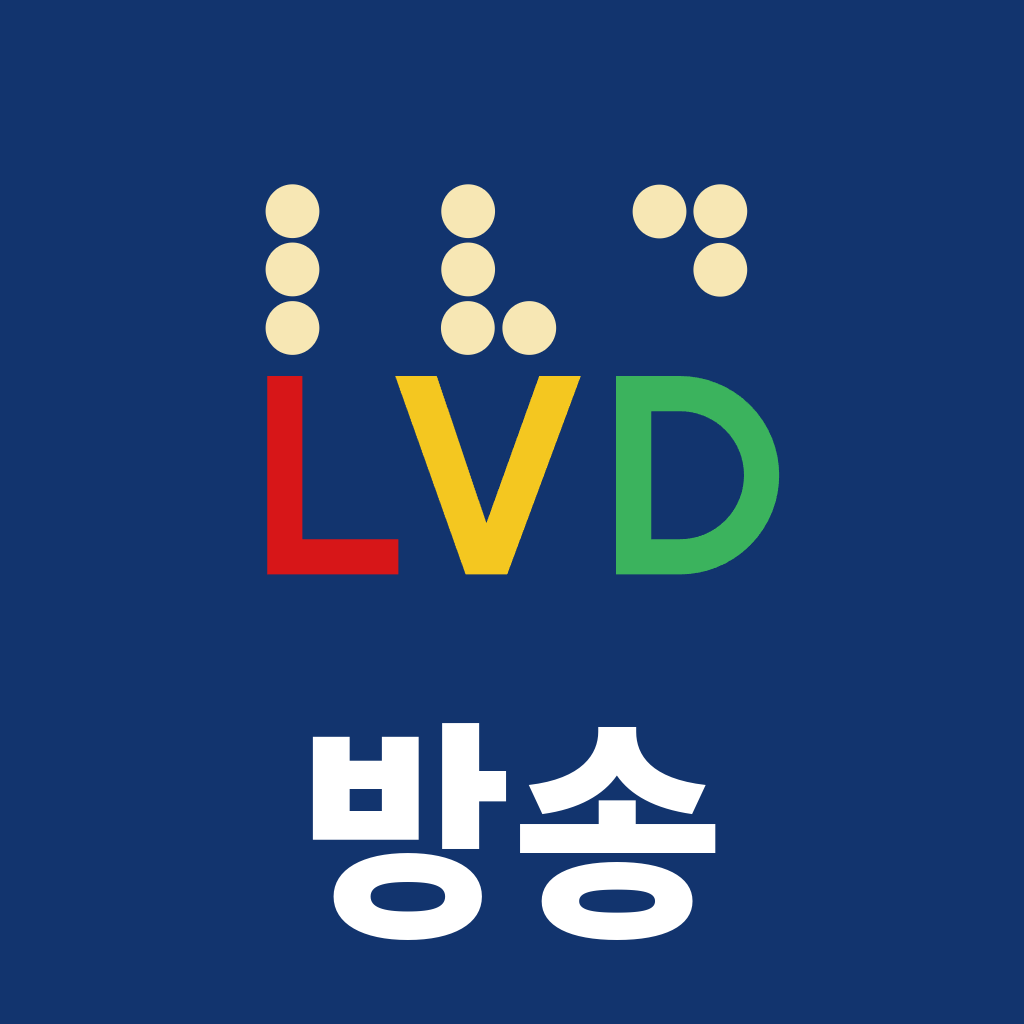
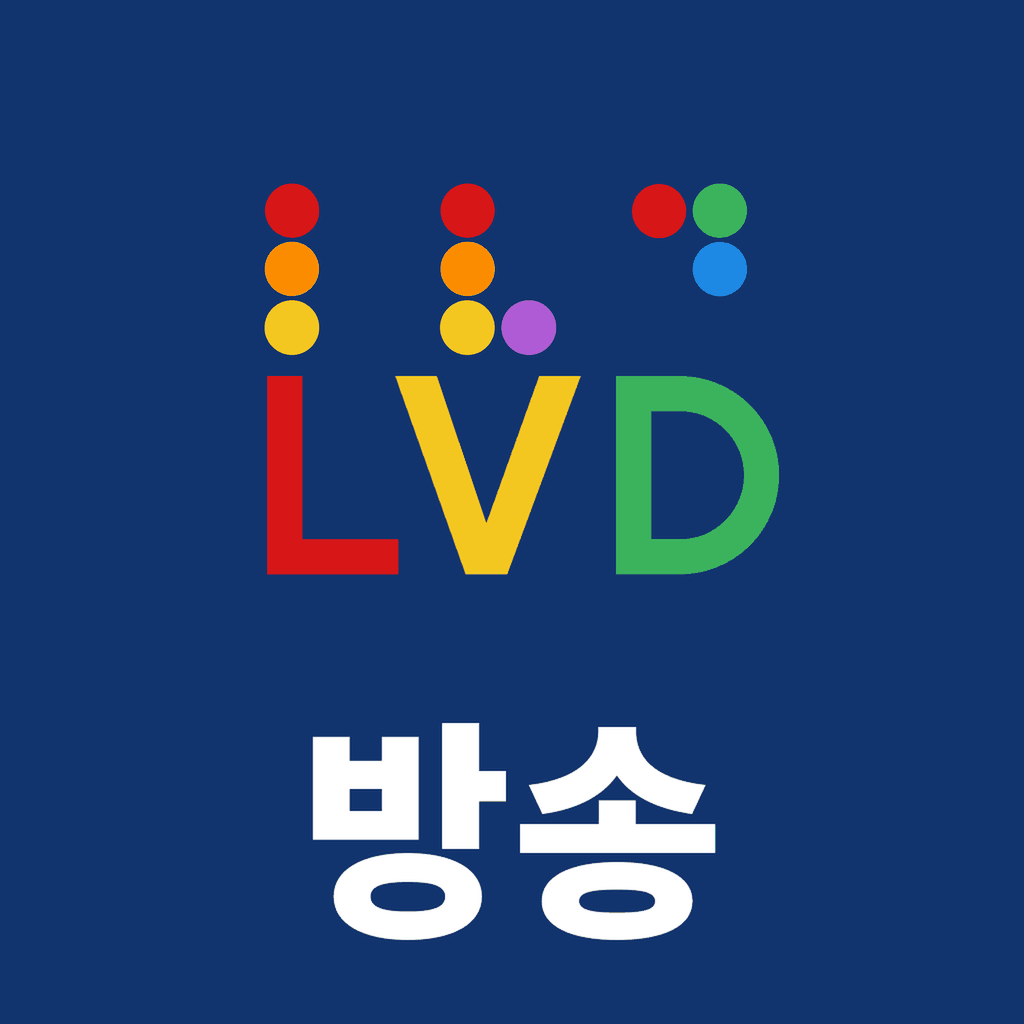
법인 로고 점자 점을 점 자리마다 여섯 색으로 — 앱 아이콘 다섯(AI점자도서관·LVD 방송·LVD 송출·LVD 수업·투어스튜디오)과 앱 안 로고(같은 다섯 앱, 아이폰·안드로이드). 길눈·자봉은 오늘 대대적인 수정이 있어 뺌 (이사장님 11-26 19시 6분 「네」·19시 7분 「모두 동일하게」·19시 26분 「길눈과 자봉은 제외」)
Claude-Session: https://claude.ai/code/session_012twot9z6RkYo8Sa4Vbakr1

Changed region(s): [[0.4062, 0.1562, 0.5625, 0.3438], [0.5938, 0.1562, 0.75, 0.3125], [0.25, 0.1562, 0.3125, 0.3438]]

diff --git a/Lib/Theme.swift b/Lib/Theme.swift
@@ -50,9 +50,12 @@ struct LogoView: View {
             let ox = (size.width - 205 * s) / 2, oy = (size.height - 162 * s) / 2
             func P(_ x: CGFloat, _ y: CGFloat) -> CGPoint { CGPoint(x: ox + x * s, y: oy + y * s) }
             let dots: [(CGFloat, CGFloat)] = [(33.9,28.5),(33.9,46.7),(33.9,65.0),(88.8,28.5),(88.8,46.7),(88.7,65.0),(107.9,65.0),(148.6,28.6),(167.6,28.5),(167.6,46.8)]
-            for (x, y) in dots {
+            // 261126 점자 점을 점 자리마다 여섯 색으로(1 빨강·2 주황·3 노랑·4 초록·5 파랑·6 보라 — 점자 교육 여섯 색과 같음, 이사장님 승인 「1」·「네」)
+            let jari = [1, 2, 3, 1, 2, 3, 6, 1, 4, 5]
+            let yeoseot = [Color(red: 0.843, green: 0.086, blue: 0.094), Color(red: 0.984, green: 0.549, blue: 0.0), Color(red: 0.957, green: 0.780, blue: 0.125), Color(red: 0.231, green: 0.702, blue: 0.365), Color(red: 0.118, green: 0.533, blue: 0.898), Color(red: 0.690, green: 0.357, blue: 0.839)]
+            for (k, (x, y)) in dots.enumerated() {
                 let r = 8.4 * s, c = P(x, y)
-                cx.fill(Path(ellipseIn: CGRect(x: c.x - r, y: c.y - r, width: r * 2, height: r * 2)), with: .color(jeomSaek))
+                cx.fill(Path(ellipseIn: CGRect(x: c.x - r, y: c.y - r, width: r * 2, height: r * 2)), with: .color(yeoseot[jari[k] - 1]))
             }
             var l = Path(); l.move(to: P(26,80)); l.addLine(to: P(37,80)); l.addLine(to: P(37,131)); l.addLine(to: P(67,131)); l.addLine(to: P(67,142)); l.addLine(to: P(26,142)); l.closeSubpath()
             cx.fill(l, with: .color(Saek.ppalgang))

diff --git a/Tour/Theme.swift b/Tour/Theme.swift
@@ -50,9 +50,12 @@ struct LogoView: View {
             let ox = (size.width - 205 * s) / 2, oy = (size.height - 162 * s) / 2
             func P(_ x: CGFloat, _ y: CGFloat) -> CGPoint { CGPoint(x: ox + x * s, y: oy + y * s) }
             let dots: [(CGFloat, CGFloat)] = [(33.9,28.5),(33.9,46.7),(33.9,65.0),(88.8,28.5),(88.8,46.7),(88.7,65.0),(107.9,65.0),(148.6,28.6),(167.6,28.5),(167.6,46.8)]
-            for (x, y) in dots {
+            // 261126 점자 점을 점 자리마다 여섯 색으로(1 빨강·2 주황·3 노랑·4 초록·5 파랑·6 보라 — 점자 교육 여섯 색과 같음, 이사장님 승인 「1」·「네」)
+            let jari = [1, 2, 3, 1, 2, 3, 6, 1, 4, 5]
+            let yeoseot = [Color(red: 0.843, green: 0.086, blue: 0.094), Color(red: 0.984, green: 0.549, blue: 0.0), Color(red: 0.957, green: 0.780, blue: 0.125), Color(red: 0.231, green: 0.702, blue: 0.365), Color(red: 0.118, green: 0.533, blue: 0.898), Color(red: 0.690, green: 0.357, blue: 0.839)]
+            for (k, (x, y)) in dots.enumerated() {
                 let r = 8.4 * s, c = P(x, y)
-                cx.fill(Path(ellipseIn: CGRect(x: c.x - r, y: c.y - r, width: r * 2, height: r * 2)), with: .color(jeomSaek))
+                cx.fill(Path(ellipseIn: CGRect(x: c.x - r, y: c.y - r, width: r * 2, height: r * 2)), with: .color(yeoseot[jari[k] - 1]))
             }
             var l = Path(); l.move(to: P(26,80)); l.addLine(to: P(37,80)); l.addLine(to: P(37,131)); l.addLine(to: P(67,131)); l.addLine(to: P(67,142)); l.addLine(to: P(26,142)); l.closeSubpath()
             cx.fill(l, with: .color(Saek.ppalgang))

diff --git a/Bfb/HyeophoeLogo.swift b/Bfb/HyeophoeLogo.swift
@@ -14,9 +14,12 @@ struct HyeophoeLogo: View {
             let ox = (size.width - 205 * s) / 2, oy = (size.height - 162 * s) / 2
             func P(_ x: CGFloat, _ y: CGFloat) -> CGPoint { CGPoint(x: ox + x * s, y: oy + y * s) }
             let dots: [(CGFloat, CGFloat)] = [(33.9,28.5),(33.9,46.7),(33.9,65.0),(88.8,28.5),(88.8,46.7),(88.7,65.0),(107.9,65.0),(148.6,28.6),(167.6,28.5),(167.6,46.8)]
-            for (x, y) in dots {
+            // 261126 점자 점을 점 자리마다 여섯 색으로(1 빨강·2 주황·3 노랑·4 초록·5 파랑·6 보라 — 점자 교육 여섯 색과 같음, 이사장님 승인 「1」·「네」)
+            let jari = [1, 2, 3, 1, 2, 3, 6, 1, 4, 5]
+            let yeoseot = [Color(red: 0.843, green: 0.086, blue: 0.094), Color(red: 0.984, green: 0.549, blue: 0.0), Color(red: 0.957, green: 0.780, blue: 0.125), Color(red: 0.231, green: 0.702, blue: 0.365), Color(red: 0.118, green: 0.533, blue: 0.898), Color(red: 0.690, green: 0.357, blue: 0.839)]
+            for (k, (x, y)) in dots.enumerated() {
                 let r = 8.4 * s, c = P(x, y)
-                cx.fill(Path(ellipseIn: CGRect(x: c.x - r, y: c.y - r, width: r * 2, height: r * 2)), with: .color(jeomSaek))
+                cx.fill(Path(ellipseIn: CGRect(x: c.x - r, y: c.y - r, width: r * 2, height: r * 2)), with: .color(yeoseot[jari[k] - 1]))
             }
             var l = Path(); l.move(to: P(26,80)); l.addLine(to: P(37,80)); l.addLine(to: P(37,131)); l.addLine(to: P(67,131)); l.addLine(to: P(67,142)); l.addLine(to: P(26,142)); l.closeSubpath()
             cx.fill(l, with: .color(ppalgang))

diff --git a/Byod/HyeophoeLogo.swift b/Byod/HyeophoeLogo.swift
@@ -14,9 +14,12 @@ struct HyeophoeLogo: View {
             let ox = (size.width - 205 * s) / 2, oy = (size.height - 162 * s) / 2
             func P(_ x: CGFloat, _ y: CGFloat) -> CGPoint { CGPoint(x: ox + x * s, y: oy + y * s) }
             let dots: [(CGFloat, CGFloat)] = [(33.9,28.5),(33.9,46.7),(33.9,65.0),(88.8,28.5),(88.8,46.7),(88.7,65.0),(107.9,65.0),(148.6,28.6),(167.6,28.5),(167.6,46.8)]
-            for (x, y) in dots {
+            // 261126 점자 점을 점 자리마다 여섯 색으로(1 빨강·2 주황·3 노랑·4 초록·5 파랑·6 보라 — 점자 교육 여섯 색과 같음, 이사장님 승인 「1」·「네」)
+            let jari = [1, 2, 3, 1, 2, 3, 6, 1, 4, 5]
+            let yeoseot = [Color(red: 0.843, green: 0.086, blue: 0.094), Color(red: 0.984, green: 0.549, blue: 0.0), Color(red: 0.957, green: 0.780, blue: 0.125), Color(red: 0.231, green: 0.702, blue: 0.365), Color(red: 0.118, green: 0.533, blue: 0.898), Color(red: 0.690, green: 0.357, blue: 0.839)]
+            for (k, (x, y)) in dots.enumerated() {
                 let r = 8.4 * s, c = P(x, y)
-                cx.fill(Path(ellipseIn: CGRect(x: c.x - r, y: c.y - r, width: r * 2, height: r * 2)), with: .color(jeomSaek))
+                cx.fill(Path(ellipseIn: CGRect(x: c.x - r, y: c.y - r, width: r * 2, height: r * 2)), with: .color(yeoseot[jari[k] - 1]))
             }
             var l = Path(); l.move(to: P(26,80)); l.addLine(to: P(37,80)); l.addLine(to: P(37,131)); l.addLine(to: P(67,131)); l.addLine(to: P(67,142)); l.addLine(to: P(26,142)); l.closeSubpath()
             cx.fill(l, with: .color(ppalgang))

diff --git a/Sueop/HyeophoeLogo.swift b/Sueop/HyeophoeLogo.swift
@@ -14,9 +14,12 @@ struct HyeophoeLogo: View {
             let ox = (size.width - 205 * s) / 2, oy = (size.height - 162 * s) / 2
             func P(_ x: CGFloat, _ y: CGFloat) -> CGPoint { CGPoint(x: ox + x * s, y: oy + y * s) }
             let dots: [(CGFloat, CGFloat)] = [(33.9,28.5),(33.9,46.7),(33.9,65.0),(88.8,28.5),(88.8,46.7),(88.7,65.0),(107.9,65.0),(148.6,28.6),(167.6,28.5),(167.6,46.8)]
-            for (x, y) in dots {
+            // 261126 점자 점을 점 자리마다 여섯 색으로(1 빨강·2 주황·3 노랑·4 초록·5 파랑·6 보라 — 점자 교육 여섯 색과 같음, 이사장님 승인 「1」·「네」)
+            let jari = [1, 2, 3, 1, 2, 3, 6, 1, 4, 5]
+            let yeoseot = [Color(red: 0.843, green: 0.086, blue: 0.094), Color(red: 0.984, green: 0.549, blue: 0.0), Color(red: 0.957, green: 0.780, blue: 0.125), Color(red: 0.231, green: 0.702, blue: 0.365), Color(red: 0.118, green: 0.533, blue: 0.898), Color(red: 0.690, green: 0.357, blue: 0.839)]
+            for (k, (x, y)) in dots.enumerated() {
                 let r = 8.4 * s, c = P(x, y)
-                cx.fill(Path(ellipseIn: CGRect(x: c.x - r, y: c.y - r, width: r * 2, height: r * 2)), with: .color(jeomSaek))
+                cx.fill(Path(ellipseIn: CGRect(x: c.x - r, y: c.y - r, width: r * 2, height: r * 2)), with: .color(yeoseot[jari[k] - 1]))
             }
             var l = Path(); l.move(to: P(26,80)); l.addLine(to: P(37,80)); l.addLine(to: P(37,131)); l.addLine(to: P(67,131)); l.addLine(to: P(67,142)); l.addLine(to: P(26,142)); l.closeSubpath()
             cx.fill(l, with: .color(ppalgang))

diff --git a/android/app/src/bfb/java/kr/or/ada/app/bfb/HyeophoeLogo.kt b/android/app/src/bfb/java/kr/or/ada/app/bfb/HyeophoeLogo.kt
@@ -26,9 +26,13 @@ class HyeophoeLogo(c: Context, private val jeom: Int = Color.rgb(247, 231, 180))
         val ox = (width - 205 * s) / 2; val oy = (height - 162 * s) / 2
         fun x(v: Float): Float = ox + v * s
         fun y(v: Float): Float = oy + v * s
-        pt.color = jeom
-        for ((a, b) in listOf(33.9f to 28.5f, 33.9f to 46.7f, 33.9f to 65f, 88.8f to 28.5f, 88.8f to 46.7f, 88.7f to 65f, 107.9f to 65f, 148.6f to 28.6f, 167.6f to 28.5f, 167.6f to 46.8f))
+        // 261126 점자 점을 점 자리마다 여섯 색으로(1 빨강·2 주황·3 노랑·4 초록·5 파랑·6 보라 — 점자 교육 여섯 색과 같음, 이사장님 승인 「1」·「네」)
+        val yeoseot = intArrayOf(Color.rgb(215, 22, 24), Color.rgb(251, 140, 0), Color.rgb(244, 199, 32), Color.rgb(59, 179, 93), Color.rgb(30, 136, 229), Color.rgb(176, 91, 214))
+        val jari = intArrayOf(1, 2, 3, 1, 2, 3, 6, 1, 4, 5)
+        listOf(33.9f to 28.5f, 33.9f to 46.7f, 33.9f to 65f, 88.8f to 28.5f, 88.8f to 46.7f, 88.7f to 65f, 107.9f to 65f, 148.6f to 28.6f, 167.6f to 28.5f, 167.6f to 46.8f).forEachIndexed { k, (a, b) ->
+            pt.color = yeoseot[jari[k] - 1]
             cv.drawCircle(x(a), y(b), 8.4f * s, pt)
+        }
         pt.color = Color.rgb(215, 22, 24)
         cv.drawPath(Path().apply { moveTo(x(26f), y(80f)); lineTo(x(37f), y(80f)); lineTo(x(37f), y(131f)); lineTo(x(67f), y(131f)); lineTo(x(67f), y(142f)); lineTo(x(26f), y(142f)); close() }, pt)
         pt.color = Color.rgb(244, 199, 32)

diff --git a/android/app/src/byod/java/kr/or/ada/app/byod/HyeophoeLogo.kt b/android/app/src/byod/java/kr/or/ada/app/byod/HyeophoeLogo.kt
@@ -26,9 +26,13 @@ class HyeophoeLogo(c: Context, private val jeom: Int = Color.rgb(247, 231, 180))
         val ox = (width - 205 * s) / 2; val oy = (height - 162 * s) / 2
         fun x(v: Float): Float = ox + v * s
         fun y(v: Float): Float = oy + v * s
-        pt.color = jeom
-        for ((a, b) in listOf(33.9f to 28.5f, 33.9f to 46.7f, 33.9f to 65f, 88.8f to 28.5f, 88.8f to 46.7f, 88.7f to 65f, 107.9f to 65f, 148.6f to 28.6f, 167.6f to 28.5f, 167.6f to 46.8f))
+        // 261126 점자 점을 점 자리마다 여섯 색으로(1 빨강·2 주황·3 노랑·4 초록·5 파랑·6 보라 — 점자 교육 여섯 색과 같음, 이사장님 승인 「1」·「네」)
+        val yeoseot = intArrayOf(Color.rgb(215, 22, 24), Color.rgb(251, 140, 0), Color.rgb(244, 199, 32), Color.rgb(59, 179, 93), Color.rgb(30, 136, 229), Color.rgb(176, 91, 214))
+        val jari = intArrayOf(1, 2, 3, 1, 2, 3, 6, 1, 4, 5)
+        listOf(33.9f to 28.5f, 33.9f to 46.7f, 33.9f to 65f, 88.8f to 28.5f, 88.8f to 46.7f, 88.7f to 65f, 107.9f to 65f, 148.6f to 28.6f, 167.6f to 28.5f, 167.6f to 46.8f).forEachIndexed { k, (a, b) ->
+            pt.color = yeoseot[jari[k] - 1]
             cv.drawCircle(x(a), y(b), 8.4f * s, pt)
+        }
         pt.color = Color.rgb(215, 22, 24)
         cv.drawPath(Path().apply { moveTo(x(26f), y(80f)); lineTo(x(37f), y(80f)); lineTo(x(37f), y(131f)); lineTo(x(67f), y(131f)); lineTo(x(67f), y(142f)); lineTo(x(26f), y(142f)); close() }, pt)
         pt.color = Color.rgb(244, 199, 32)

diff --git a/android/app/src/sueop/java/kr/or/ada/app/sueop/HyeophoeLogo.kt b/android/app/src/sueop/java/kr/or/ada/app/sueop/HyeophoeLogo.kt
@@ -26,9 +26,13 @@ class HyeophoeLogo(c: Context, private val jeom: Int = Color.rgb(247, 231, 180))
         val ox = (width - 205 * s) / 2; val oy = (height - 162 * s) / 2
         fun x(v: Float): Float = ox + v * s
         fun y(v: Float): Float = oy + v * s
-        pt.color = jeom
-        for ((a, b) in listOf(33.9f to 28.5f, 33.9f to 46.7f, 33.9f to 65f, 88.8f to 28.5f, 88.8f to 46.7f, 88.7f to 65f, 107.9f to 65f, 148.6f to 28.6f, 167.6f to 28.5f, 167.6f to 46.8f))
+        // 261126 점자 점을 점 자리마다 여섯 색으로(1 빨강·2 주황·3 노랑·4 초록·5 파랑·6 보라 — 점자 교육 여섯 색과 같음, 이사장님 승인 「1」·「네」)
+        val yeoseot = intArrayOf(Color.rgb(215, 22, 24), Color.rgb(251, 140, 0), Color.rgb(244, 199, 32), Color.rgb(59, 179, 93), Color.rgb(30, 136, 229), Color.rgb(176, 91, 214))
+        val jari = intArrayOf(1, 2, 3, 1, 2, 3, 6, 1, 4, 5)
+        listOf(33.9f to 28.5f, 33.9f to 46.7f, 33.9f to 65f, 88.8f to 28.5f, 88.8f to 46.7f, 88.7f to 65f, 107.9f to 65f, 148.6f to 28.6f, 167.6f to 28.5f, 167.6f to 46.8f).forEachIndexed { k, (a, b) ->
+            pt.color = yeoseot[jari[k] - 1]
             cv.drawCircle(x(a), y(b), 8.4f * s, pt)
+        }
         pt.color = Color.rgb(215, 22, 24)
         cv.drawPath(Path().apply { moveTo(x(26f), y(80f)); lineTo(x(37f), y(80f)); lineTo(x(37f), y(131f)); lineTo(x(67f), y(131f)); lineTo(x(67f), y(142f)); lineTo(x(26f), y(142f)); close() }, pt)
         pt.color = Color.rgb(244, 199, 32)

diff --git a/android/app/src/lib/java/kr/or/ada/app/lib/Kkumim.kt b/android/app/src/lib/java/kr/or/ada/app/lib/Kkumim.kt
@@ -38,9 +38,13 @@ class LogoView(c: Context, private val jeom: Int = Saek.geum) : View(c) {
         val ox = (width - 205 * s) / 2; val oy = (height - 162 * s) / 2
         fun x(v: Float): Float = ox + v * s
         fun y(v: Float): Float = oy + v * s
-        pt.color = jeom
-        for ((a, b) in listOf(33.9f to 28.5f, 33.9f to 46.7f, 33.9f to 65f, 88.8f to 28.5f, 88.8f to 46.7f, 88.7f to 65f, 107.9f to 65f, 148.6f to 28.6f, 167.6f to 28.5f, 167.6f to 46.8f))
+        // 261126 점자 점을 점 자리마다 여섯 색으로(1 빨강·2 주황·3 노랑·4 초록·5 파랑·6 보라 — 점자 교육 여섯 색과 같음, 이사장님 승인 「1」·「네」)
+        val yeoseot = intArrayOf(Color.rgb(215, 22, 24), Color.rgb(251, 140, 0), Color.rgb(244, 199, 32), Color.rgb(59, 179, 93), Color.rgb(30, 136, 229), Color.rgb(176, 91, 214))
+        val jari = intArrayOf(1, 2, 3, 1, 2, 3, 6, 1, 4, 5)
+        listOf(33.9f to 28.5f, 33.9f to 46.7f, 33.9f to 65f, 88.8f to 28.5f, 88.8f to 46.7f, 88.7f to 65f, 107.9f to 65f, 148.6f to 28.6f, 167.6f to 28.5f, 167.6f to 46.8f).forEachIndexed { k, (a, b) ->
+            pt.color = yeoseot[jari[k] - 1]
             cv.drawCircle(x(a), y(b), 8.4f * s, pt)
+        }
         pt.color = Saek.ppalgang
         cv.drawPath(Path().apply { moveTo(x(26f), y(80f)); lineTo(x(37f), y(80f)); lineTo(x(37f), y(131f)); lineTo(x(67f), y(131f)); lineTo(x(67f), y(142f)); lineTo(x(26f), y(142f)); close() }, pt)
         pt.color = Saek.norang

diff --git a/android/app/src/tour/java/kr/or/ada/app/tour/Kkumim.kt b/android/app/src/tour/java/kr/or/ada/app/tour/Kkumim.kt
@@ -38,9 +38,13 @@ class LogoView(c: Context, private val jeom: Int = Saek.geum) : View(c) {
         val ox = (width - 205 * s) / 2; val oy = (height - 162 * s) / 2
         fun x(v: Float): Float = ox + v * s
         fun y(v: Float): Float = oy + v * s
-        pt.color = jeom
-        for ((a, b) in listOf(33.9f to 28.5f, 33.9f to 46.7f, 33.9f to 65f, 88.8f to 28.5f, 88.8f to 46.7f, 88.7f to 65f, 107.9f to 65f, 148.6f to 28.6f, 167.6f to 28.5f, 167.6f to 46.8f))
+        // 261126 점자 점을 점 자리마다 여섯 색으로(1 빨강·2 주황·3 노랑·4 초록·5 파랑·6 보라 — 점자 교육 여섯 색과 같음, 이사장님 승인 「1」·「네」)
+        val yeoseot = intArrayOf(Color.rgb(215, 22, 24), Color.rgb(251, 140, 0), Color.rgb(244, 199, 32), Color.rgb(59, 179, 93), Color.rgb(30, 136, 229), Color.rgb(176, 91, 214))
+        val jari = intArrayOf(1, 2, 3, 1, 2, 3, 6, 1, 4, 5)
+        listOf(33.9f to 28.5f, 33.9f to 46.7f, 33.9f to 65f, 88.8f to 28.5f, 88.8f to 46.7f, 88.7f to 65f, 107.9f to 65f, 148.6f to 28.6f, 167.6f to 28.5f, 167.6f to 46.8f).forEachIndexed { k, (a, b) ->
+            pt.color = yeoseot[jari[k] - 1]
             cv.drawCircle(x(a), y(b), 8.4f * s, pt)
+        }
         pt.color = Saek.ppalgang
         cv.drawPath(Path().apply { moveTo(x(26f), y(80f)); lineTo(x(37f), y(80f)); lineTo(x(37f), y(131f)); lineTo(x(67f), y(131f)); lineTo(x(67f), y(142f)); lineTo(x(26f), y(142f)); close() }, pt)
         pt.color = Saek.norang

diff --git a/android/tools/make_android_icon.py b/android/tools/make_android_icon.py
@@ -77,15 +77,18 @@ def save(img, galrae):
 
 
 def make_lib():
-    """261002-L1 AI점자도서관 — 남색 바탕에 법인 로고(점자 lvd 금빛 + 빨강·노랑·초록 LVD), 아이폰 아이콘과 같음"""
+    """261002-L1 AI점자도서관 — 남색 바탕에 법인 로고(점자 lvd 여섯 색 점 + 빨강·노랑·초록 LVD), 아이폰 아이콘과 같음"""
     img = Image.new("RGB", (S, S), (20, 33, 61))
     d = ImageDraw.Draw(img)
     s = 4.6
     tx, ty = 512 - 105.75 * s, 512 - 81 * s
     P = lambda x, y: (tx + x * s, ty + y * s)
-    for (x, y) in [(33.9, 28.5), (33.9, 46.7), (33.9, 65.0), (88.8, 28.5), (88.8, 46.7), (88.7, 65.0), (107.9, 65.0), (148.6, 28.6), (167.6, 28.5), (167.6, 46.8)]:
+    # 261126 법인 로고 점자 점을 점 자리마다 여섯 색으로(1 빨강·2 주황·3 노랑·4 초록·5 파랑·6 보라, 도클 봉사자 방과 같음, 이사장님 승인 10시 48분 「1」)
+    C6 = {1: (215, 22, 24), 2: (251, 140, 0), 3: (244, 199, 32), 4: (59, 179, 93), 5: (30, 136, 229), 6: (176, 91, 214)}
+    for (x, y), n in zip([(33.9, 28.5), (33.9, 46.7), (33.9, 65.0), (88.8, 28.5), (88.8, 46.7), (88.7, 65.0), (107.9, 65.0), (148.6, 28.6), (167.6, 28.5), (167.6, 46.8)],
+                         [1, 2, 3, 1, 2, 3, 6, 1, 4, 5]):
         cx, cy = P(x, y); r = 8.4 * s
-        d.ellipse((cx - r, cy - r, cx + r, cy + r), fill=(247, 231, 180))
+        d.ellipse((cx - r, cy - r, cx + r, cy + r), fill=C6[n])
     d.polygon([P(26, 80), P(37, 80), P(37, 131), P(67, 131), P(67, 142), P(26, 142)], fill=(215, 22, 24))
     d.polygon([P(66, 80), P(79, 80), P(94.5, 126), P(111, 80), P(124, 80), P(101, 142), P(88, 142)], fill=(244, 199, 32))
     g = (59, 179, 93)
